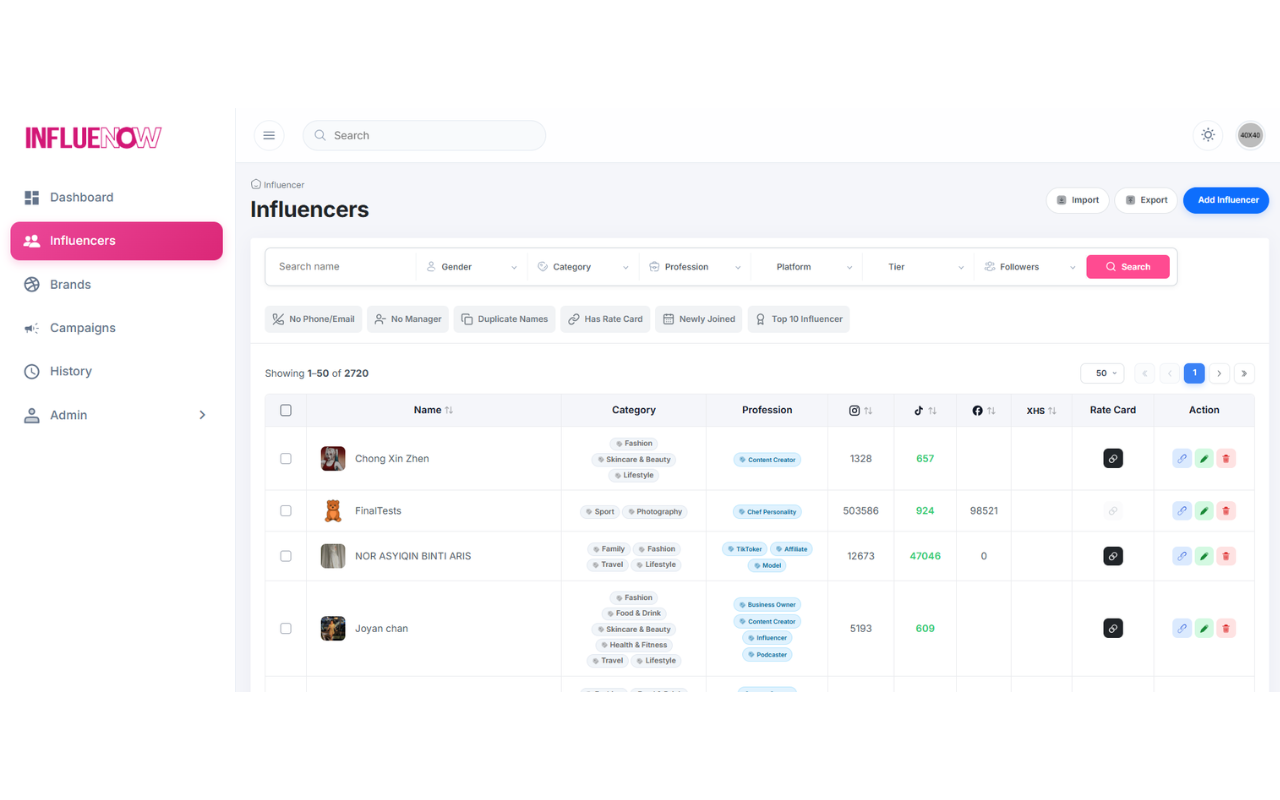
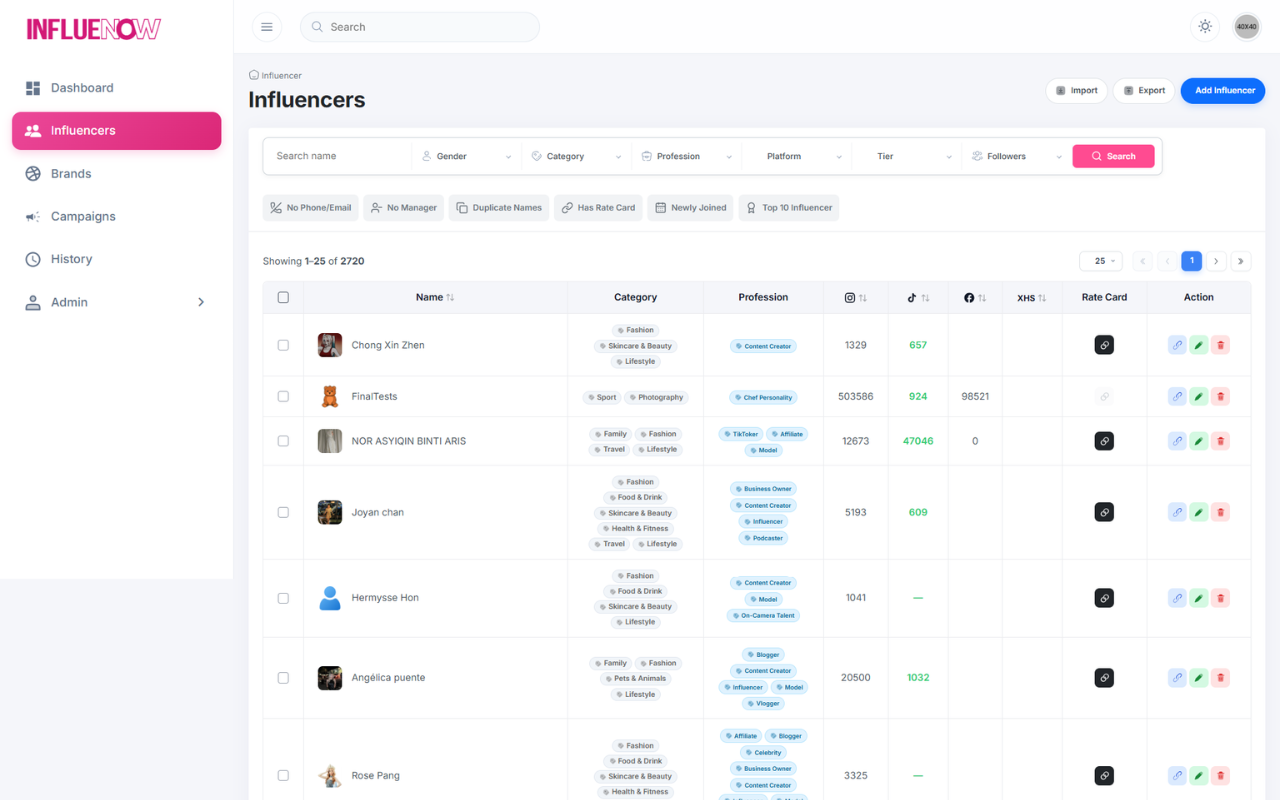
Add image

diff --git a/index.html b/index.html
@@ -906,56 +906,69 @@
                                             class="w-full h-full object-cover" />
                                     </button>
 
+                                    <button type="button" onclick="selectSystemPage(0, 1, 'assets/property/cart.png')"
+                                        class="system-page-card system-page-card-0 overflow-hidden relative group focus:outline-none shrink-0">
+                                        <img src="assets/property/cart.png" alt="Cart"
+                                            class="w-full h-full object-cover" />
+                                    </button>
+
                                     <button type="button"
-                                        onclick="selectSystemPage(0, 1, 'assets/property/propertyresult.png')"
+                                        onclick="selectSystemPage(0, 2, 'assets/property/sidebar.png')"
+                                        class="system-page-card system-page-card-0 overflow-hidden relative group focus:outline-none shrink-0">
+                                        <img src="assets/property/sidebar.png" alt="Sidebar"
+                                            class="w-full h-full object-cover" />
+                                    </button>
+
+                                    <button type="button"
+                                        onclick="selectSystemPage(0, 3, 'assets/property/propertyresult.png')"
                                         class="system-page-card system-page-card-0 overflow-hidden relative group focus:outline-none shrink-0">
                                         <img src="assets/property/propertyresult.png" alt="Property Result"
                                             class="w-full h-full object-cover" />
                                     </button>
 
                                     <button type="button"
-                                        onclick="selectSystemPage(0, 2, 'assets/property/propertyinfo.png')"
+                                        onclick="selectSystemPage(0, 4, 'assets/property/propertyinfo.png')"
                                         class="system-page-card system-page-card-0 overflow-hidden relative group focus:outline-none shrink-0">
                                         <img src="assets/property/propertyinfo.png" alt="Property Info"
                                             class="w-full h-full object-cover" />
                                     </button>
 
-                                    <button type="button" onclick="selectSystemPage(0, 3, 'assets/property/login.png')"
+                                    <button type="button" onclick="selectSystemPage(0, 5, 'assets/property/login.png')"
                                         class="system-page-card system-page-card-0 overflow-hidden relative group focus:outline-none shrink-0">
                                         <img src="assets/property/login.png" alt="Login"
                                             class="w-full h-full object-cover" />
                                     </button>
 
                                     <button type="button"
-                                        onclick="selectSystemPage(0, 4, 'assets/property/register.png')"
+                                        onclick="selectSystemPage(0, 6, 'assets/property/register.png')"
                                         class="system-page-card system-page-card-0 overflow-hidden relative group focus:outline-none shrink-0">
                                         <img src="assets/property/register.png" alt="Register"
                                             class="w-full h-full object-cover" />
                                     </button>
 
                                     <button type="button"
-                                        onclick="selectSystemPage(0, 5, 'assets/property/loginadmin.png')"
+                                        onclick="selectSystemPage(0, 7, 'assets/property/loginadmin.png')"
                                         class="system-page-card system-page-card-0 overflow-hidden relative group focus:outline-none shrink-0">
                                         <img src="assets/property/loginadmin.png" alt="Login Admin"
                                             class="w-full h-full object-cover" />
                                     </button>
 
                                     <button type="button"
-                                        onclick="selectSystemPage(0, 6, 'assets/property/propertyresultadmin.png')"
+                                        onclick="selectSystemPage(0, 8, 'assets/property/propertyresultadmin.png')"
                                         class="system-page-card system-page-card-0 overflow-hidden relative group focus:outline-none shrink-0">
                                         <img src="assets/property/propertyresultadmin.png" alt="Property Result Admin"
                                             class="w-full h-full object-cover" />
                                     </button>
 
                                     <button type="button"
-                                        onclick="selectSystemPage(0, 7, 'assets/property/propertydetailadmin.png')"
+                                        onclick="selectSystemPage(0, 9, 'assets/property/propertydetailadmin.png')"
                                         class="system-page-card system-page-card-0 overflow-hidden relative group focus:outline-none shrink-0">
                                         <img src="assets/property/propertydetailadmin.png" alt="Property Detail Admin"
                                             class="w-full h-full object-cover" />
                                     </button>
 
                                     <button type="button"
-                                        onclick="selectSystemPage(0, 8, 'assets/property/helpadmin.png')"
+                                        onclick="selectSystemPage(0, 10, 'assets/property/helpadmin.png')"
                                         class="system-page-card system-page-card-0 overflow-hidden relative group focus:outline-none shrink-0">
                                         <img src="assets/property/helpadmin.png" alt="Help Admin"
                                             class="w-full h-full object-cover" />
@@ -1058,9 +1071,45 @@
                                             class="w-full h-full object-cover" />
                                     </button>
 
-                                    <button type="button" onclick="selectSystemPage(1, 1, 'assets/influencer/3.png')"
-                                        class="system-page-card system-page-card-1 is-active overflow-hidden relative group focus:outline-none shrink-0">
+                                    <button type="button" onclick="selectSystemPage(1, 1, 'assets/influencer/2.png')"
+                                        class="system-page-card system-page-card-1 overflow-hidden relative group focus:outline-none shrink-0">
+                                        <img src="assets/influencer/2.png" alt="Admin Dashboard"
+                                            class="w-full h-full object-cover" />
+                                    </button>
+
+                                    <button type="button" onclick="selectSystemPage(1, 2, 'assets/influencer/3.png')"
+                                        class="system-page-card system-page-card-1 overflow-hidden relative group focus:outline-none shrink-0">
                                         <img src="assets/influencer/3.png" alt="Admin Dashboard"
+                                            class="w-full h-full object-cover" />
+                                    </button>
+
+                                    <button type="button" onclick="selectSystemPage(1, 3, 'assets/influencer/4.png')"
+                                        class="system-page-card system-page-card-1 overflow-hidden relative group focus:outline-none shrink-0">
+                                        <img src="assets/influencer/4.png" alt="Admin Dashboard"
+                                            class="w-full h-full object-cover" />
+                                    </button>
+
+                                    <button type="button" onclick="selectSystemPage(1, 4, 'assets/influencer/5.png')"
+                                        class="system-page-card system-page-card-1 overflow-hidden relative group focus:outline-none shrink-0">
+                                        <img src="assets/influencer/5.png" alt="Admin Dashboard"
+                                            class="w-full h-full object-cover" />
+                                    </button>
+
+                                    <button type="button" onclick="selectSystemPage(1, 5, 'assets/influencer/6.png')"
+                                        class="system-page-card system-page-card-1 overflow-hidden relative group focus:outline-none shrink-0">
+                                        <img src="assets/influencer/6.png" alt="Admin Dashboard"
+                                            class="w-full h-full object-cover" />
+                                    </button>
+
+                                    <button type="button" onclick="selectSystemPage(1, 6, 'assets/influencer/7.png')"
+                                        class="system-page-card system-page-card-1 overflow-hidden relative group focus:outline-none shrink-0">
+                                        <img src="assets/influencer/7.png" alt="Admin Dashboard"
+                                            class="w-full h-full object-cover" />
+                                    </button>
+
+                                    <button type="button" onclick="selectSystemPage(1, 7, 'assets/influencer/8.png')"
+                                        class="system-page-card system-page-card-1 overflow-hidden relative group focus:outline-none shrink-0">
+                                        <img src="assets/influencer/8.png" alt="Admin Dashboard"
                                             class="w-full h-full object-cover" />
                                     </button>
 
@@ -1191,7 +1240,8 @@
                                             class="w-full h-full object-cover" />
                                     </button>
 
-                                    <button type="button" onclick="selectSystemPage(2, 5, 'assets/license/register.png')"
+                                    <button type="button"
+                                        onclick="selectSystemPage(2, 5, 'assets/license/register.png')"
                                         class="system-page-card system-page-card-2 overflow-hidden relative group focus:outline-none shrink-0">
                                         <img src="assets/license/register.png" alt="Register Page"
                                             class="w-full h-full object-cover" />
